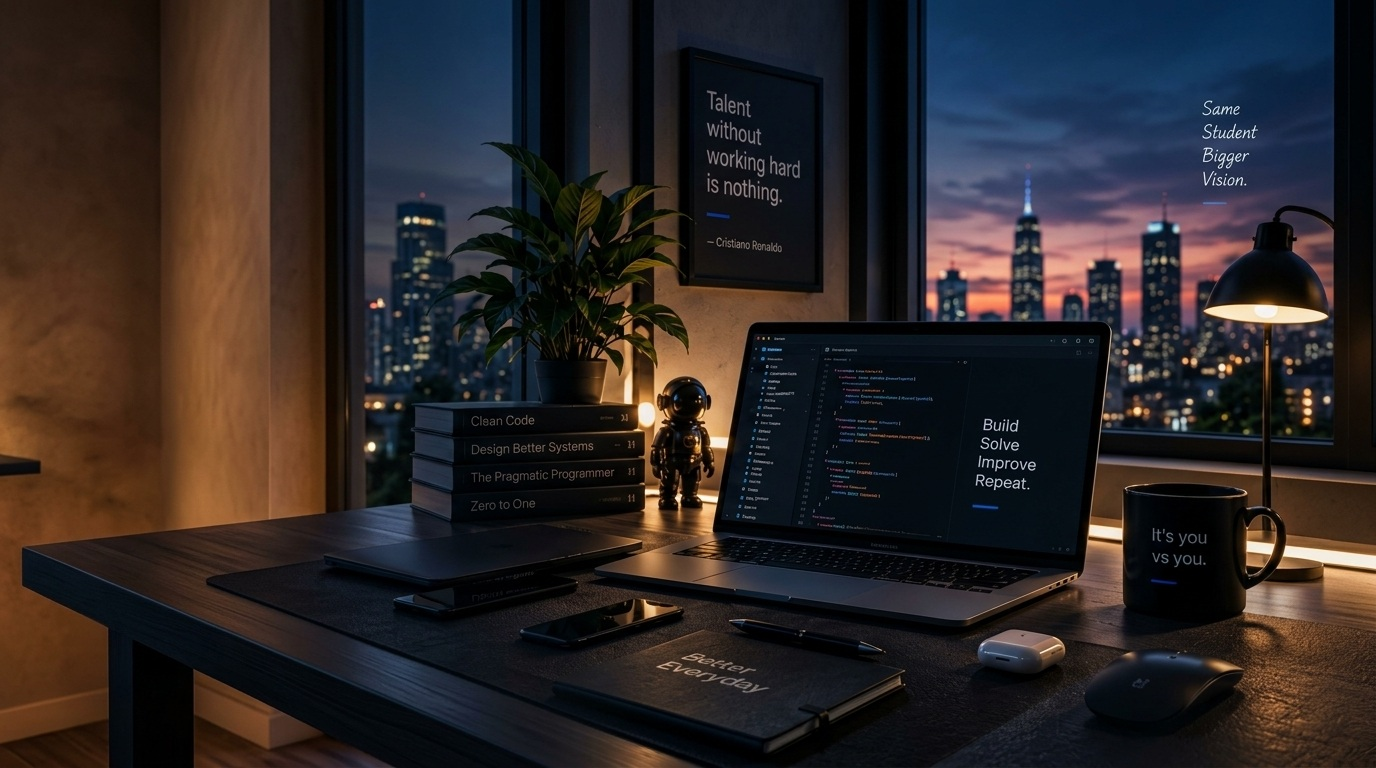
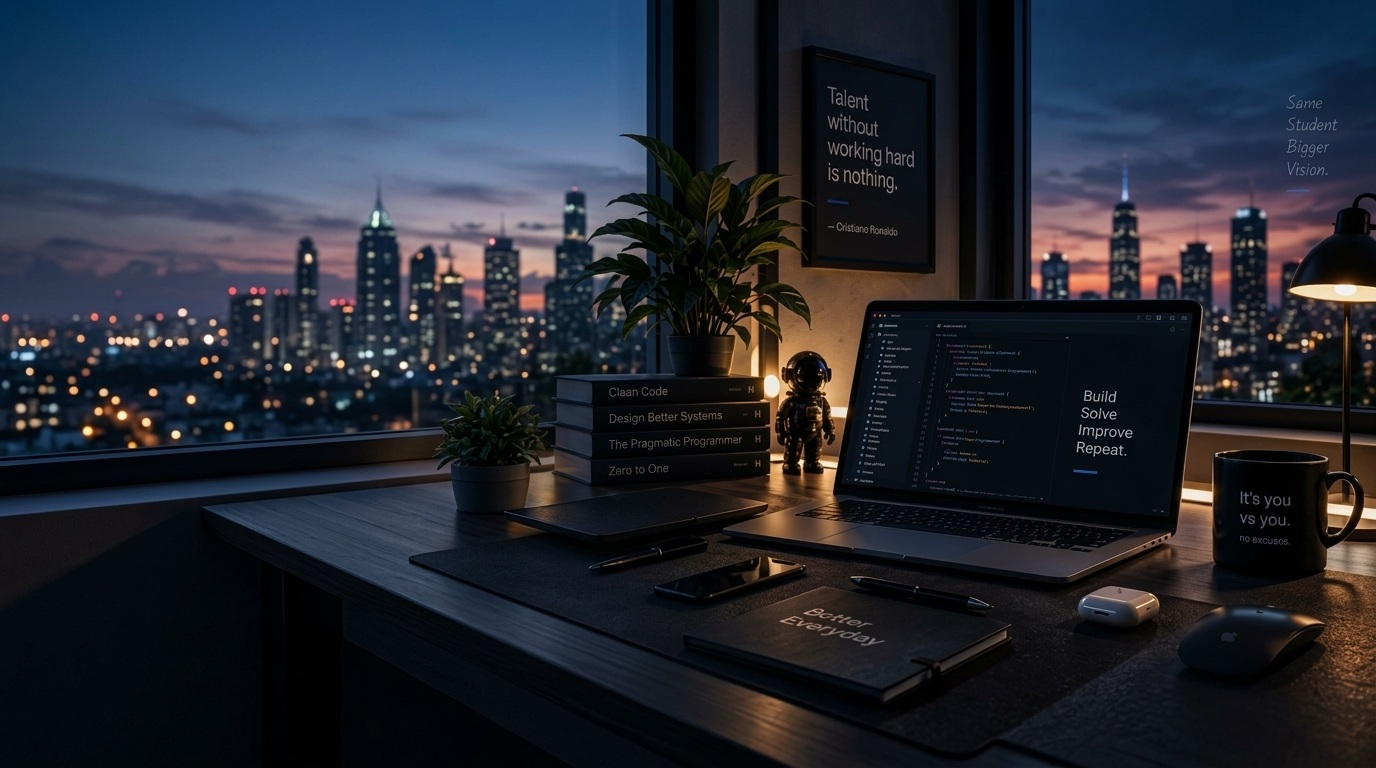
Perfect blend of workspace scene with Cristiano Ronaldo poster, cup with no excuses, and updated badge

diff --git a/src/components/sections/Hero.jsx b/src/components/sections/Hero.jsx
@@ -1,7 +1,8 @@
 import { motion } from "framer-motion";
 import { ArrowRight, Mail, Lightbulb, Code2, Box, BarChart3, MapPin } from "lucide-react";
+import { cn } from "../../lib/utils";
 
-// The 4 interactive bento tiles
+// The 4 interactive bento tiles from the reference mockup
 const bentoCards = [
   {
     number: "01",
@@ -65,8 +66,12 @@ export default function Hero() {
     >
       {/* =========================================================================
           ATMOSPHERIC WORKSPACE BACKGROUND
-          Crystal-clear, sharp, vivid developer desk image.
-          Left-edge gradient ensures high text contrast; right side remains 100% luminous and crisp.
+          Seamlessly blended 16:9 photographic scene across the entire frame.
+          Contains:
+          - Wall poster: 'Talent without working hard is nothing. — Cristiano Ronaldo'
+          - Mug: "It's you vs you. no excuses."
+          - Laptop: Code + 'Build Solve Improve Repeat.'
+          - Books, glowing astronaut, plant, twilight city skyline, window cursive.
           ========================================================================= */}
       <div className="absolute inset-0 z-0 pointer-events-none overflow-hidden">
         <img
@@ -74,14 +79,11 @@ export default function Hero() {
           alt="Atmospheric Developer Workspace"
           fetchPriority="high"
           decoding="async"
-          className="w-full h-full object-cover object-right lg:object-center opacity-100"
+          className="w-full h-full object-cover object-center opacity-100"
         />
 
-        {/* Subtle left-side dark gradient ONLY under the text/cards column */}
-        <div className="absolute inset-y-0 left-0 w-full sm:w-2/3 lg:w-[52%] bg-gradient-to-r from-zinc-950/90 via-zinc-950/60 to-transparent pointer-events-none" />
-
         {/* Soft bottom edge blend into the next section */}
-        <div className="absolute bottom-0 inset-x-0 h-28 bg-gradient-to-t from-zinc-950 via-zinc-950/50 to-transparent pointer-events-none" />
+        <div className="absolute bottom-0 inset-x-0 h-24 bg-gradient-to-t from-zinc-950 via-zinc-950/40 to-transparent pointer-events-none" />
       </div>
 
       {/* =========================================================================
@@ -96,20 +98,20 @@ export default function Hero() {
         >
           {/* Tag Badge */}
           <motion.div variants={itemVariants}>
-            <div className="inline-flex items-center gap-2 px-3 py-1 rounded-full bg-zinc-900/50 border border-white/[0.08] backdrop-blur-md shadow-md">
-              <span className="w-1.5 h-1.5 rounded-full bg-blue-500 shadow-[0_0_8px_#3b82f6] animate-pulse" />
-              <span className="text-[10.5px] sm:text-[11px] font-semibold tracking-[0.2em] text-zinc-300 uppercase">
-                BUILD &bull; LEARN &bull; SOLVE &bull; REPEAT
+            <div className="inline-flex items-center gap-2.5 px-4 py-1.5 rounded-full bg-slate-900/60 border border-white/10 backdrop-blur-md shadow-lg shadow-black/40">
+              <span className="w-2 h-2 rounded-full bg-blue-500 shadow-[0_0_10px_#3b82f6] animate-pulse" />
+              <span className="text-[11px] sm:text-xs font-semibold tracking-[0.16em] text-zinc-300 uppercase">
+                FULL-STACK DEVELOPER &bull; AI BUILDER &bull; PROBLEM SOLVER
               </span>
             </div>
           </motion.div>
 
           {/* Main Headline */}
           <motion.div variants={itemVariants}>
-            <h1 className="text-5xl sm:text-6xl md:text-7xl lg:text-[76px] font-extrabold tracking-[-0.04em] text-white leading-[1.02]">
+            <h1 className="text-5xl sm:text-6xl md:text-7xl lg:text-[78px] font-extrabold tracking-[-0.035em] text-white leading-[1.02]">
               Hi, I’m<br />
               Sautrik{" "}
-              <span className="text-transparent bg-clip-text bg-gradient-to-r from-blue-500 via-blue-400 to-indigo-400 drop-shadow-[0_0_24px_rgba(59,130,246,0.5)]">
+              <span className="text-transparent bg-clip-text bg-gradient-to-r from-blue-400 via-indigo-400 to-cyan-400 drop-shadow-[0_0_30px_rgba(59,130,246,0.65)] font-display">
                 Roy.
               </span>
             </h1>
@@ -117,7 +119,7 @@ export default function Hero() {
 
           {/* Sub-headline description */}
           <motion.div variants={itemVariants}>
-            <p className="text-base sm:text-[17px] text-zinc-300/85 font-normal leading-relaxed max-w-lg">
+            <p className="text-base sm:text-lg text-zinc-300/90 font-normal leading-relaxed max-w-xl drop-shadow-[0_2px_8px_rgba(0,0,0,0.8)]">
               I build full-stack and AI-powered products that turn complex problems into elegant,
               impactful experiences.
             </p>
@@ -127,22 +129,22 @@ export default function Hero() {
           <motion.div variants={itemVariants} className="flex flex-wrap items-center gap-3.5 pt-1">
             <motion.a
               href="#projects"
-              whileHover={{ scale: 1.02 }}
+              whileHover={{ scale: 1.03 }}
               whileTap={{ scale: 0.98 }}
-              className="group inline-flex items-center justify-center gap-2 px-6 py-2.5 sm:py-3 rounded-full text-sm font-semibold text-white bg-gradient-to-r from-blue-600 via-blue-500 to-indigo-600 shadow-[0_0_20px_rgba(37,99,235,0.45)] hover:shadow-[0_0_28px_rgba(37,99,235,0.7)] transition-all duration-200"
+              className="group inline-flex items-center justify-center gap-2.5 px-7 py-3 rounded-2xl font-semibold text-white bg-gradient-to-r from-blue-600 via-blue-500 to-indigo-600 shadow-[0_0_25px_rgba(37,99,235,0.55)] hover:shadow-[0_0_35px_rgba(37,99,235,0.85)] transition-all duration-300"
             >
-              <span>View My Work</span>
-              <ArrowRight className="w-4 h-4 transition-transform duration-200 group-hover:translate-x-0.5" />
+              <span className="text-sm sm:text-base font-semibold">View My Work</span>
+              <ArrowRight className="w-4 h-4 transition-transform duration-200 group-hover:translate-x-1" />
             </motion.a>
 
             <motion.a
               href="#contact"
-              whileHover={{ scale: 1.02 }}
+              whileHover={{ scale: 1.03 }}
               whileTap={{ scale: 0.98 }}
-              className="group inline-flex items-center justify-center gap-2 px-5 py-2.5 sm:py-3 rounded-full text-sm font-medium text-zinc-200 bg-zinc-950/40 hover:bg-zinc-900/60 border border-white/10 hover:border-white/20 backdrop-blur-xl transition-all duration-200 shadow-sm"
+              className="group inline-flex items-center justify-center gap-2.5 px-6 py-3 rounded-2xl font-semibold text-zinc-200 bg-slate-950/60 hover:bg-slate-900/80 border border-white/10 hover:border-white/25 backdrop-blur-xl shadow-lg transition-all duration-300"
             >
-              <span>Get in Touch</span>
-              <Mail className="w-4 h-4 text-zinc-400 group-hover:text-zinc-200 transition-colors" />
+              <span className="text-sm sm:text-base font-semibold">Get in Touch</span>
+              <Mail className="w-4 h-4 text-zinc-400 group-hover:text-white transition-colors" />
             </motion.a>
           </motion.div>
 
@@ -151,41 +153,54 @@ export default function Hero() {
               ========================================================================= */}
           <motion.div
             variants={itemVariants}
-            className="w-full grid grid-cols-2 sm:grid-cols-4 gap-3 max-w-xl lg:max-w-2xl pt-2"
+            className="w-full grid grid-cols-2 sm:grid-cols-4 gap-3 sm:gap-3.5 max-w-xl lg:max-w-2xl pt-2"
           >
-            {bentoCards.map((card) => {
+            {bentoCards.map((card, idx) => {
               const Icon = card.icon;
+              const isActive = idx === 0;
               return (
                 <motion.a
                   key={card.number}
                   href={card.href}
-                  whileHover={{ y: -4 }}
+                  whileHover={{ y: -5, scale: 1.02 }}
                   whileTap={{ scale: 0.98 }}
                   transition={{ type: "spring", stiffness: 400, damping: 25 }}
-                  className="group relative flex flex-col justify-between p-3.5 rounded-xl bg-zinc-950/30 hover:bg-zinc-900/40 backdrop-blur-xl border border-white/[0.08] hover:border-blue-500/40 shadow-lg hover:shadow-[0_0_20px_rgba(59,130,246,0.15)] transition-all duration-300 cursor-pointer overflow-hidden"
+                  className={cn(
+                    "group relative flex flex-col justify-between p-4 rounded-2xl transition-all duration-300 cursor-pointer overflow-hidden backdrop-blur-xl border",
+                    isActive
+                      ? "bg-slate-950/60 border-blue-500/50 shadow-[0_0_20px_rgba(59,130,246,0.25)]"
+                      : "bg-slate-950/45 border-white/10 hover:border-blue-500/50 hover:shadow-[0_0_20px_rgba(59,130,246,0.2)]"
+                  )}
                 >
                   {/* Top Row: Icon + Number */}
-                  <div className="relative z-10 flex items-center justify-between mb-2.5">
-                    <div className="w-7 h-7 rounded-lg bg-blue-500/10 border border-blue-500/20 flex items-center justify-center text-blue-400 group-hover:text-blue-300 group-hover:border-blue-400/40 transition-colors">
-                      <Icon className="w-3.5 h-3.5" />
+                  <div className="relative z-10 flex items-center justify-between mb-3">
+                    <div className="w-8 h-8 rounded-xl bg-blue-500/10 border border-blue-500/20 flex items-center justify-center text-blue-400 group-hover:text-blue-300 group-hover:border-blue-400/40 group-hover:shadow-[0_0_12px_rgba(59,130,246,0.4)] transition-all duration-200">
+                      <Icon className="w-4 h-4" />
                     </div>
-                    <span className="text-[10px] font-mono font-medium text-zinc-300">
+                    <span className="text-[11px] font-mono font-medium text-zinc-400 tracking-wider">
                       {card.number}
                     </span>
                   </div>
 
                   {/* Title & Description */}
                   <div className="relative z-10 text-left">
-                    <h2 className="text-sm font-semibold text-white mb-0.5 tracking-tight group-hover:text-blue-300 transition-colors">
+                    <h2 className="text-sm sm:text-base font-bold text-white mb-1 tracking-tight group-hover:text-blue-200 transition-colors">
                       {card.title}
                     </h2>
-                    <p className="text-[11px] text-zinc-300/80 leading-snug line-clamp-2">
+                    <p className="text-[11px] sm:text-xs text-zinc-300/80 leading-snug line-clamp-2">
                       {card.description}
                     </p>
                   </div>
 
-                  {/* Subtle bottom line highlight on hover */}
-                  <div className="absolute bottom-0 inset-x-3 h-[1.5px] bg-gradient-to-r from-transparent via-blue-400/0 to-transparent group-hover:via-blue-400 transition-all duration-300" />
+                  {/* Bottom accent line */}
+                  <div
+                    className={cn(
+                      "absolute bottom-0 inset-x-3 h-[2px] transition-all duration-300",
+                      isActive
+                        ? "bg-blue-500 shadow-[0_0_8px_#3b82f6]"
+                        : "bg-transparent group-hover:bg-blue-400 group-hover:shadow-[0_0_8px_#60a5fa]"
+                    )}
+                  />
                 </motion.a>
               );
             })}
@@ -205,7 +220,7 @@ export default function Hero() {
         {/* Scroll Indicator (Left) */}
         <a
           href="#about"
-          className="group flex items-center gap-2.5 text-[11px] font-medium tracking-widest uppercase hover:text-white transition-colors cursor-pointer"
+          className="group flex items-center gap-2.5 text-[11px] font-semibold tracking-widest uppercase hover:text-white transition-colors cursor-pointer"
         >
           {/* Animated Mouse Icon */}
           <div className="w-4 h-6 rounded-full border border-zinc-300/60 group-hover:border-blue-400 flex items-start justify-center p-1 transition-colors">
